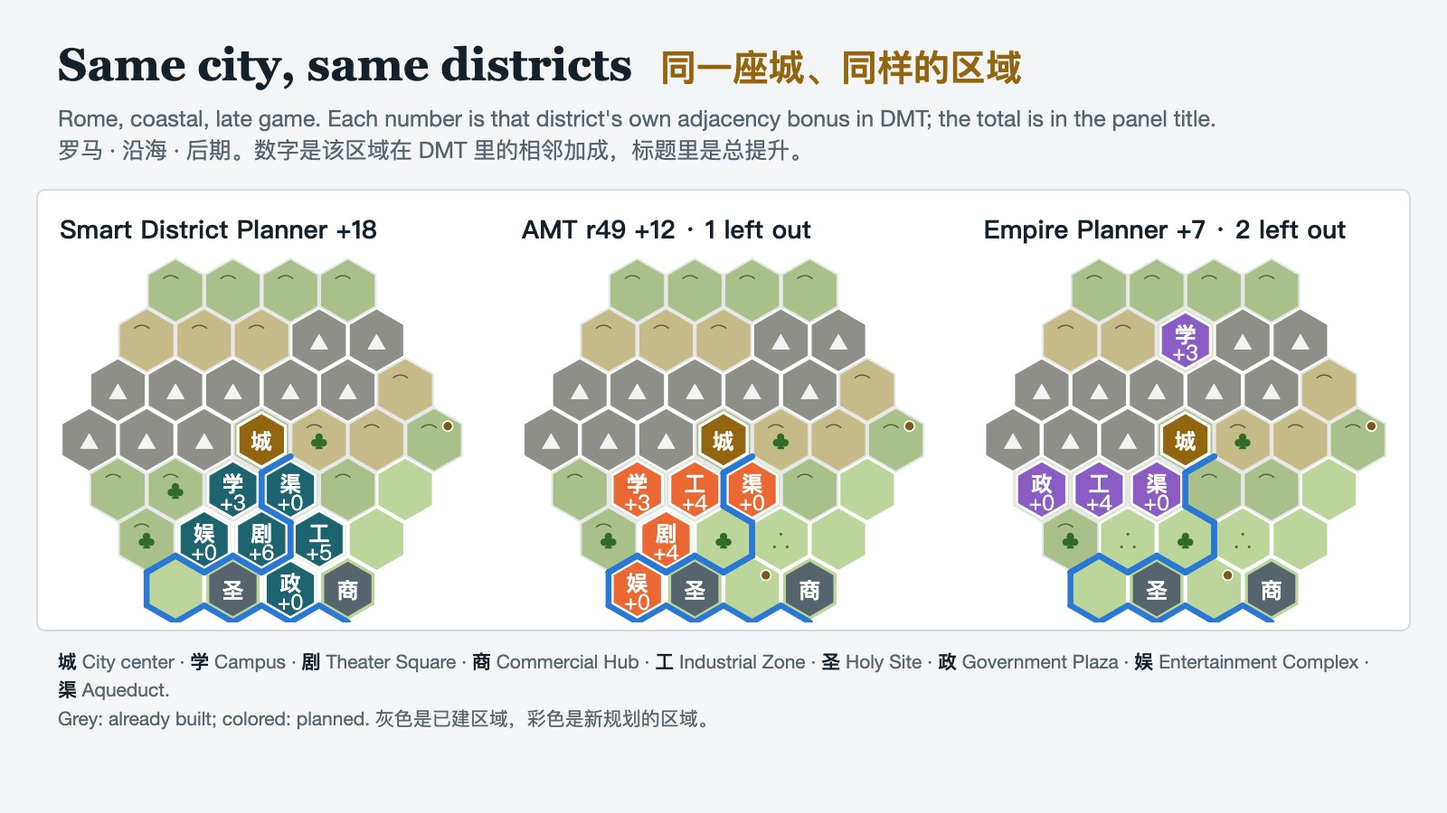
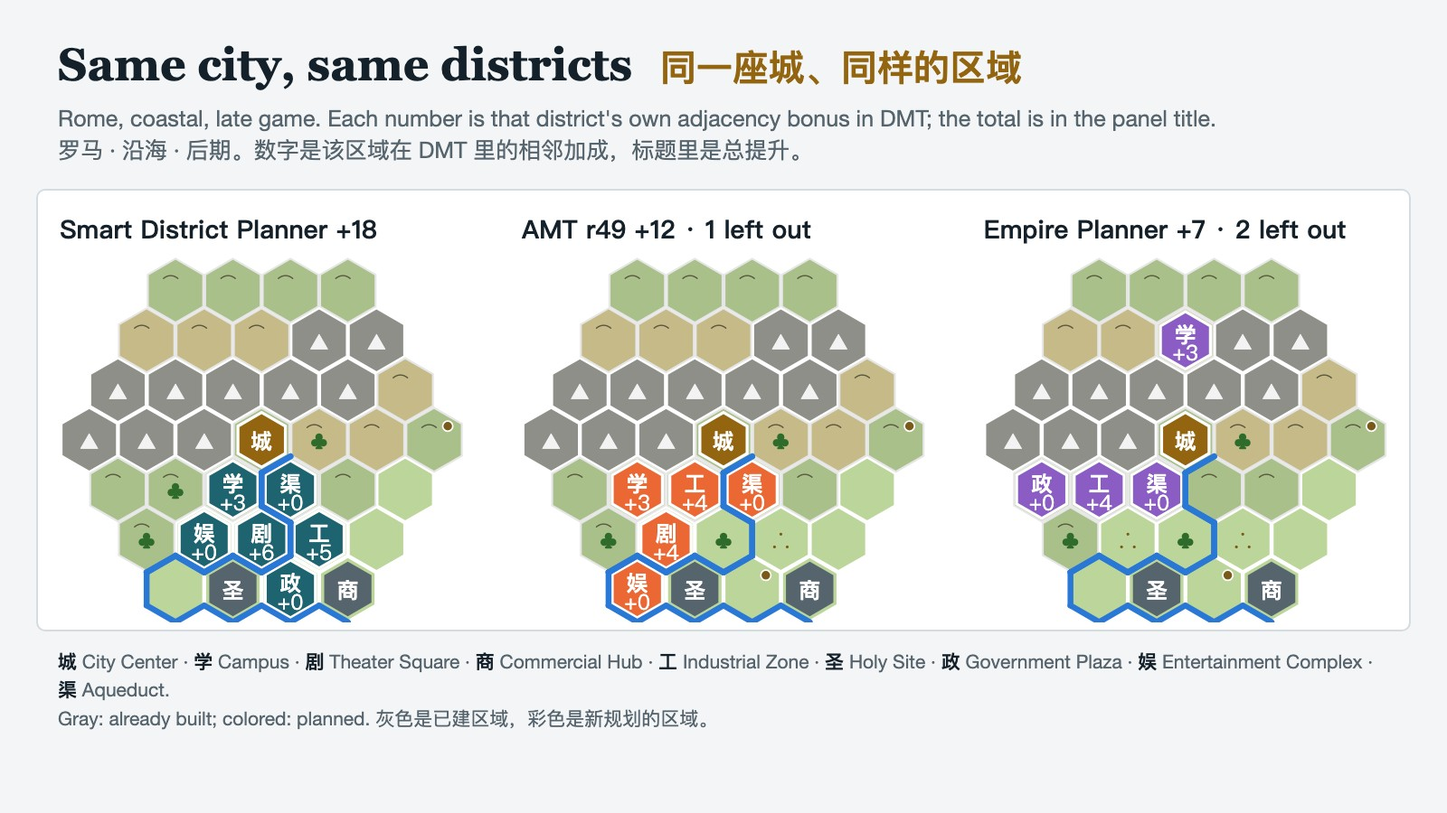
Use the game's own English terms in the mod's text (#14)
Part of #2（文字部分；英文界面的游戏内检查、英文截图和真实点击另做，#2 保持打开）

## 做了什么

- 模组英文文本（`SDP_Text_en_US.xml`）、modinfo
里内嵌的英文描述、创意工坊英文简介和对比图的图例，按游戏自己的英文文本逐个核对专有名词，改了约 60 处：
  - **tile** 代替 plot（游戏英文约 700 处用 tile，plot 只在世界编辑器等处）；
  - **valid** 代替 legal（“Valid Settling Location”）；
  - **map tack / tack** 代替 pin、pinned（游戏英文就叫 Map Tacks、Add Tack）；
- 需要人口的区域叫 **specialty districts**（百科原文），“Need population”分组改为“Specialty
districts”；
- 区域、建筑、地貌、产出名首字母大写（City Center、Theater
Square、Woods、Rainforest、Floodplains、Volcanic
Soil、Housing、Appeal、Amenity、Production……）；
- 美式拼写（neighbor、Gray）；贸易路线写“+1 Trade Route capacity”；淡水分类用游戏的 Fresh
Water / Coastal Water / No Water；
- 模组自己的词统一：“Tier”改为“Effort”（面板其他处已是
Effort），地貌权重的短标签“Clear”（像清空按钮）改为“Chop”，提醒钉名“Keep:”改为“Don't
chop:”，快捷键名改为游戏风格的“Toggle Smart District Planner”。
- 核对时顺带发现两处中文与游戏中文不一致，一并改了（中文界面文本、README、介绍与评测页、文档；CHANGELOG 的历史记录不改）：
  - 政府广场 → **市政广场**（`LOC_DISTRICT_GOVERNMENT_NAME`）；
- 林苑、圣所 →
**古树林、避难所**（`LOC_BUILDING_GROVE_NAME`、`LOC_BUILDING_SANCTUARY_NAME`）。
- 对比图图例改了文字，重新渲染了 `workshop/images/compare.jpg`；其余工坊图片重新渲染后没有变化。

## 依据

游戏文本：`DebugLocalization.sqlite` 里只有上次载入的规则集的文字，所以把游戏 Base 和全部 DLC 的文本
XML（en_US、zh_Hans_CN）全部解析出来查；在线核对用
civilization.fandom.com、Wikipedia（fandom 页面抓取被拒，只能用搜索摘要，结论与游戏文本一致）。

<details><summary>核对过的名词与依据（Tag 或链接）</summary>

| Our English (Tag or file:line) | Chinese twin | Official English |
Source | Verdict |
|---|---|---|---|---|
| Campus, Holy Site, Theater Square, Commercial Hub, Harbor, Industrial
[…]

Changed region(s): [[0.0938, 0.8089, 0.9375, 0.84], [0.1875, 0.8711, 0.5, 0.9022], [0.0625, 0.8711, 0.1562, 0.9022]]

diff --git a/report/template.html b/report/template.html
@@ -237,7 +237,7 @@ details.appx[open] > summary { margin-bottom: 8px; }
   <ul class="tight">
     <li><b>组合多</b>：一座城 3 环内约 30 个可用格，放 8 个区域就有约 30<sup>8</sup> ≈ 6.6×10<sup>11</sup> 种摆法。</li>
     <li><b>规则多</b>：不少文明改写了规则。日本的区域彼此相邻再 +1，高丽书院挨着别的区域反而减产，高卢的特色区域不能挨着市中心，越南的特色区域只能建在树林、雨林或沼泽上。</li>
-    <li><b>多城牵连</b>：相邻的城可以共享加成，也会抢同一格；政府广场这类区域全帝国只能有一个。</li>
+    <li><b>多城牵连</b>：相邻的城可以共享加成，也会抢同一格；市政广场这类区域全帝国只能有一个。</li>
     <li><b>已有的东西要尊重</b>：已经建好的区域、玩家自己打的钉、奢侈与战略资源都不能被挪动或压掉。</li>
   </ul>
     <p>本模组把这些都算进去。面板有三个页签：单城、选城址、多城。下面列出每个页签里你设置什么、得到什么；标 <span class="tag from">AMT</span><span class="tag from">EP</span> 的是借鉴这两个模组的做法（第 3 节）。</p>
@@ -255,7 +255,7 @@ details.appx[open] > summary { margin-bottom: 8px; }
       </ul></div>
       <div><p class="lbl">得到</p><ul class="tight">
         <li>加权提升，分列相邻、地块、距离、住房与魅力几部分</li>
-        <li>社区、保护区：所在格的魅力和给的住房（如“住房 +6（魅力 4）”）；保护区另列周边地块因林苑、圣所得到的产出（设为必建时计分；从候选里挑出的只显示，标“候选，不计分”）。方案里其他区域对魅力的影响（工业区 -1、圣地 +1、清掉树林……）一起算</li>
+        <li>社区、保护区：所在格的魅力和给的住房（如“住房 +6（魅力 4）”）；保护区另列周边地块因古树林、避难所得到的产出（设为必建时计分；从候选里挑出的只显示，标“候选，不计分”）。方案里其他区域对魅力的影响（工业区 -1、圣地 +1、清掉树林……）一起算</li>
         <li>从候选里挑时：三套区域组合各不相同的方案，各写明挑出了哪些区域；点一套即在地图上预览图标和加成</li>
         <li>每个区域、奇观一行：坐标和加成（如“科+2 文+1”），悬停看 DMT 的逐项来源；自动加入、从候选挑出的另有标注</li>
         <li>缺淡水时自动加水渠，三环内泛滥平原不少于 3 格时自动加水坝（风云变幻），位置照常求解</li>
@@ -272,7 +272,7 @@ details.appx[open] > summary { margin-bottom: 8px; }
       <div><p class="lbl">你设置</p><ul class="tight">
         <li>新城数量、最远距离</li>
         <li>权重预设（均衡、成长优先、区域优先），各项可再调，包括距离成本、奢侈资源的宜居度、战略资源、可砍伐地貌、魅力（默认不计）</li>
-        <li>用来估算区域潜力的区域（政府广场这类全帝国限量的区域不按城址计），以及每个城址按几个区域估分（默认 3）：勾选的多于这个数时，每个城址各自挑区域分最高的几个</li>
+        <li>用来估算区域潜力的区域（市政广场这类全帝国限量的区域不按城址计），以及每个城址按几个区域估分（默认 3）：勾选的多于这个数时，每个城址各自挑区域分最高的几个</li>
       </ul></div>
       <div><p class="lbl">得到</p><ul class="tight">
         <li>三套城址方案，各有总分，并注明候选城址数和其中精评了区域的个数</li>
@@ -287,7 +287,7 @@ details.appx[open] > summary { margin-bottom: 8px; }
       <div><p class="lbl">你设置</p><ul class="tight">
         <li>参与城市：全部城址钉，加上离任一新城 7 格内的现有城市（最多 8 座）。每一项都可以取消勾选：城址钉取消后不参与规划，钉还在，仍作邻居；现有城市取消后只作邻居（不给它规划，但它的区域照样计入相邻）</li>
         <li>区域清单：所有城市共用一张，或给某座城单独一张；网格与单城相同。每城数量：多于必建个数时，为每座城从候选里挑。可套用按产出生成的模板（“科技城”“生产力城”……，由本文明的相邻规则推出），也可清空、改回共用 <span class="tag from">AMT</span></li>
-        <li>全帝国限量的区域（政府广场等）：只写进一座城的清单就只放在那座城，写进几座城就在其中自动选 <span class="tag from">AMT</span></li>
+        <li>全帝国限量的区域（市政广场等）：只写进一座城的清单就只放在那座城，写进几座城就在其中自动选 <span class="tag from">AMT</span></li>
         <li>奇观（标签加下拉框）、产出与住房权重、距离成本；开关：计入占地损失、替换本模组之前为参与城市打的钉、提醒钉、港口与商业中心分城（按城判断）</li>
         <li>覆盖范围的权重（0–3，默认 0 不计）：工厂、电厂、动物园、体育场、水族馆和斗兽场等奇观惠及一定距离内的本方城市（规则数据里多为 6 格），规划时把新覆盖的城市也算进去；只决定区域放在哪，不会替城市加区域 <span class="tag from">AMT</span></li>
       </ul></div>
@@ -411,7 +411,7 @@ details.appx[open] > summary { margin-bottom: 8px; }
     <li><b>优化的不是钉上的数。</b>评分把特色区域的产出乘 6–10.5 倍、其他区域乘 2 倍，再减去占用地块的产出；产出权重都设成 1 时，它找的也不是地图钉上相邻加成最高的方案。</li>
     <li><b>合法性检查之间不清缓存。</b>逐格检查合法性时不清空 DMT 的地块缓存，前一个区域的假想位置会影响后面的检查，有合法位置的区域可能被判为放不下（例：剧院被判“不能放在水坝上”）。<span class="ev"><span class="tag run">实测</span>{{AMT_MISSING}}</span></li>
     <li><b>多城先比槽位。</b>联合规划的排序先比槽位填满数和“覆盖缺口”，产出排在第 6 层；工业区、娱乐中心的覆盖请求对所有城开放，区域可能放进没选它的城；各城的产出偏好合成一组。作者把多城联合标为实验功能，评估超过 20 万次时不给方案。</li>
-    <li><b>全帝国唯一的区域。</b>AUTO 模式给政府广场单独一个槽位，但它仍占人口名额；帝国上限在不同的路径里分别按“已建加已打钉”或“只算已建”计算；单城模式不隐藏已达上限的政府广场、外交区。</li>
+    <li><b>全帝国唯一的区域。</b>AUTO 模式给市政广场单独一个槽位，但它仍占人口名额；帝国上限在不同的路径里分别按“已建加已打钉”或“只算已建”计算；单城模式不隐藏已达上限的市政广场、外交区。</li>
     <li><b>多城一次算完。</b>多城的准备阶段对每座城、每个请求、每个合法格做一次完整的 DMT 评估，一次做完，期间游戏不响应。</li>
     <li><b>每城最多 6 个特色区域。</b>{{AMT_SLOTS}}</li>
   </ul>
@@ -458,7 +458,7 @@ details.appx[open] > summary { margin-bottom: 8px; }
     <li>多城页签没有“禁止砍伐”开关，始终允许砍伐树林、雨林、沼泽。</li>
     <li>每种区域只规划一个；社区这类可以重复建造的区域要多个时，需分次求解。</li>
     <li><b>魅力</b>：方案之外以后才建的改良设施不在模型里；保护区周边产出假设那些地块一直不开发；打钉的保护区只计住房。区域建在沼泽上时本格魅力怎么变没有实测（按雨林处理）。后期存档复核时，东京一个保护区游戏给的住房比预测多 1，原因没有查明（附录 B.8）。</li>
-    <li><b>保护区周边产出只在必建时计分</b>：惊艳、迷人的地块多时，一个保护区的周边产出可达 40–70 点；这些产出要建林苑、圣所才有，计入挑选会让候选里几乎总是先挑保护区。所以从候选里挑时只计它的住房，周边产出只显示。</li>
+    <li><b>保护区周边产出只在必建时计分</b>：惊艳、迷人的地块多时，一个保护区的周边产出可达 40–70 点；这些产出要建古树林、避难所才有，计入挑选会让候选里几乎总是先挑保护区。所以从候选里挑时只计它的住房，周边产出只显示。</li>
     <li><b>一次打很多钉</b>：DMT 每收到一个新钉就更新它和周围的钉，每次都把整张钉数据表读出再存回，钉越多越慢。地图上已有约 100 个钉时一次打 80 多个，游戏忙约 12 秒；正常一次打 15 个约 0.25 秒。</li>
     <li>从候选里挑时只比目标函数（相邻加成，打开时加上地块、覆盖、距离成本），区域里建筑本身的产出不计：军营、航空港这类没有相邻加成的区域放在候选里不会被挑中，需要时设为必建。</li>
     <li>提醒钉只提醒规划的区域旁边的树林、雨林；已有区域旁边的地貌与这次规划无关，不提醒。</li>
@@ -533,7 +533,7 @@ details.appx[open] > summary { margin-bottom: 8px; }
         <text class="d-sub" x="766" y="58">离市中心远</text>
         <text class="d-sub" x="766" y="74">每格扣分</text>
         <text class="d-lab" x="766" y="90">默认 0</text>
-        <text class="d-sub" x="10" y="120">区域里建筑本身的产出不计；必建保护区的林苑、圣所给周边地块的产出例外，因为它取决于摆放位置。</text>
+        <text class="d-sub" x="10" y="120">区域里建筑本身的产出不计；必建保护区的古树林、避难所给周边地块的产出例外，因为它取决于摆放位置。</text>
       </svg>
     </div>
   </figure>
@@ -619,7 +619,7 @@ details.appx[open] > summary { margin-bottom: 8px; }
       <thead><tr><th>场景集</th><th class="num">场景</th><th>内容</th><th>用途</th></tr></thead>
       <tbody>
         <tr><td>开发集 · 单城</td><td class="num">{{N_SINGLE}}</td><td>{{N_CIVS}} 个文明 × 8 种地形 × 前期 / 中期 / 后期</td><td>主实验；改算法时只看开发集</td></tr>
-        <tr><td>开发集 · 多城</td><td class="num">{{N_MULTI}}</td><td>3–4 座城联合规划，含政府广场</td><td>主实验</td></tr>
+        <tr><td>开发集 · 多城</td><td class="num">{{N_MULTI}}</td><td>3–4 座城联合规划，含市政广场</td><td>主实验</td></tr>
         <tr><td>留出集</td><td class="num">{{N_HS}} + {{N_HM}}</td><td>构成同开发集，换了地图种子</td><td>复核：改算法时没看过</td></tr>
         <tr><td>换权重</td><td class="num">3 × {{N_SINGLE}}</td><td>开发集单城的地图，科研、生产或信仰的权重设为 3</td><td>复核：换一组目标</td></tr>
         <tr><td>奇观</td><td class="num">{{N_W}}</td><td>中期单城，2 座奇观 + 4–5 个区域</td><td>奇观与区域联合规划</td></tr>
@@ -629,7 +629,7 @@ details.appx[open] > summary { margin-bottom: 8px; }
     </table>
   </div>
   <div class="col">
-    <p>开发集的地形有温带河谷、沿海、高地、雨林、沙漠泛滥平原、苔原、岛屿、火山；文明里有日本、高丽、高卢、越南、巴西、荷兰、希腊、马里、印尼、埃及、拜占庭等改写了区域规则的文明。有的场景还有邻国城市、城邦、自然奇观、尚未探索的格子，以及玩家事先手打的钉。前期要 2 个区域，中期 4–5 个（已建 1 个），后期 7–8 个（已建 2 个，含水渠、政府广场，沙漠里含水坝）。</p>
+    <p>开发集的地形有温带河谷、沿海、高地、雨林、沙漠泛滥平原、苔原、岛屿、火山；文明里有日本、高丽、高卢、越南、巴西、荷兰、希腊、马里、印尼、埃及、拜占庭等改写了区域规则的文明。有的场景还有邻国城市、城邦、自然奇观、尚未探索的格子，以及玩家事先手打的钉。前期要 2 个区域，中期 4–5 个（已建 1 个），后期 7–8 个（已建 2 个，含水渠、市政广场，沙漠里含水坝）。</p>
     <p><b>指标</b></p>
     <ul class="tight">
       <li><b>加成</b>：方案打成钉后，玩家全部区域与区域钉在 DMT 里的相邻加成之和（按场景的产出权重），减去规划之前的和。</li>
@@ -718,7 +718,7 @@ details.appx[open] > summary { margin-bottom: 8px; }
   <!-- B.3 multi city -->
   <div class="col">
     <h3 id="e-multi"><span class="sn">B.3</span>多城</h3>
-    <p>开发集 {{N_MULTI}} 个场景，每个 3–4 座城一起规划（含政府广场）；留出集另有 {{N_HM}} 个；覆盖范围另用 {{N_V}} 个场景，见本节最后一段。</p>
+    <p>开发集 {{N_MULTI}} 个场景，每个 3–4 座城一起规划（含市政广场）；留出集另有 {{N_HM}} 个；覆盖范围另用 {{N_V}} 个场景，见本节最后一段。</p>
     <p class="exp"><b>联合规划。</b>{{MULTI_TEXT}}</p>
     <figure>
       <div class="frame chart" id="ch-multi"></div>
@@ -809,7 +809,7 @@ details.appx[open] > summary { margin-bottom: 8px; }
     <table>
       <thead><tr><th>测试</th><th>内容</th><th>结果</th></tr></thead>
       <tbody>
-        <tr><td>游戏内（经 FireTuner 在游戏的 Lua 状态里断言）</td><td>92 项，在原版 / 迭起兴衰 / 风云变幻下各跑一遍，其中 73 项另以日本、高卢各跑一遍：与暴力枚举最优一致、假想摆放与真实 DMT 钉逐项一致、确定性、锁定钉、打钉撤销、分帧与关闭面板、多城与选城址合法；单城奇观、补放、好位置、钉的记录与替换、逐城清单与限量区域、覆盖范围、快捷键；从候选里挑与三套方案、地图预览、距离成本、自动水渠水坝、提醒钉与 DMT 一致、城址钉取消、选城址按个数估分；游戏规则里的港口 / 商业中心配对、候选池不同城挑两者、社区住房与游戏的魅力一致且挑在可建格里魅力最高处、取消城址钉与替换旧钉不动市中心钉</td><td>0 失败（该规则集没有的内容或地图条件不满足时跳过 1–4 项，如原版没有政府广场、地图全部已探索）</td></tr>
+        <tr><td>游戏内（经 FireTuner 在游戏的 Lua 状态里断言）</td><td>92 项，在原版 / 迭起兴衰 / 风云变幻下各跑一遍，其中 73 项另以日本、高卢各跑一遍：与暴力枚举最优一致、假想摆放与真实 DMT 钉逐项一致、确定性、锁定钉、打钉撤销、分帧与关闭面板、多城与选城址合法；单城奇观、补放、好位置、钉的记录与替换、逐城清单与限量区域、覆盖范围、快捷键；从候选里挑与三套方案、地图预览、距离成本、自动水渠水坝、提醒钉与 DMT 一致、城址钉取消、选城址按个数估分；游戏规则里的港口 / 商业中心配对、候选池不同城挑两者、社区住房与游戏的魅力一致且挑在可建格里魅力最高处、取消城址钉与替换旧钉不动市中心钉</td><td>0 失败（该规则集没有的内容或地图条件不满足时跳过 1–4 项，如原版没有市政广场、地图全部已探索）</td></tr>
         <tr><td>增量评估 vs 全量评估</td><td>记忆化的增量评估与真实 DMT 全量评估逐项比对</td><td>300 次，0 不一致</td></tr>
         <tr><td>离线逻辑测试</td><td>101 项：求解器与暴力枚举、增量记账、分帧、面板流程、规则补充、引擎复核、钉的记录与替换、逐城清单、奇观、补放与好位置、覆盖范围；从候选里挑（与逐个组合的暴力枚举一致、三套组合不同）、距离成本、自动水渠水坝、提醒钉、选城址按个数估分、多城按城挑选；多城的宽束联合起点；港口与商业中心分城（开关两种结果、必建与已打钉挡住配对、凑不够时放行、多城按城）；魅力与住房（与独立写的暴力枚举逐个相同、清掉地貌要有对应科技、水面不变、本格与邻格）；界面经控件自己的点击回调（区域格两页各点一圈、勾选框、选城址打钉后多城替换不动市中心钉）；互斥区域（娱乐中心与水上乐园）、必建区域抢同一块地时放下能放的、拥挤城市候选一个合法格都没有、占掉改良设施少的住房</td><td>全部通过</td></tr>
         <tr><td>离线对比自检</td><td>本模组自己算的加成与裁判独立算的加成</td><td>{{SELF_CHECK}}</td></tr>

diff --git a/report/part_algo.html b/report/part_algo.html
@@ -187,7 +187,7 @@
     </div>
     <figcaption>束宽加倍的联合起点是另加的：几座城的区域连成一片、跨城互给加成的形状，窄束常常走不到。直接把原来的联合起点加宽反而在一张图上少 3 分，所以原有起点不变。</figcaption>
   </figure>
-  <p>参与的是全部城址钉，加上离任一新城 7 格内的现有城市（最多 8 座）。全帝国限量的区域（政府广场）只开剩余名额，放在清单里有它的各城候选格里。覆盖范围默认不计；打开后，工厂、动物园这类惠及周围城市的区域每多覆盖一座本方城市加权重分，半径从规则数据读。</p>
+  <p>参与的是全部城址钉，加上离任一新城 7 格内的现有城市（最多 8 座）。全帝国限量的区域（市政广场）只开剩余名额，放在清单里有它的各城候选格里。覆盖范围默认不计；打开后，工厂、动物园这类惠及周围城市的区域每多覆盖一座本方城市加权重分，半径从规则数据读。</p>
   </div>
 
   <div class="algo">
@@ -281,12 +281,12 @@
         <polygon class="hx-far" points="648,95 674,110 674,140 648,155 622,140 622,110"/><text class="hx-t hx-t-far" x="648" y="118" text-anchor="middle">农场</text><text class="hx-t hx-t-far" x="648" y="134" text-anchor="middle">0</text>
         <polygon class="hx-far" points="674,140 700,155 700,185 674,200 648,185 648,155"/><text class="hx-t hx-t-far" x="674" y="163" text-anchor="middle">山</text><text class="hx-t hx-t-far" x="674" y="179" text-anchor="middle">0</text>
         <polygon class="hx-near" points="726,140 752,155 752,185 726,200 700,185 700,155"/><text class="hx-t" x="726" y="163" text-anchor="middle">一般</text><text class="hx-t" x="726" y="179" text-anchor="middle">0</text>
-        <text class="d-sub" x="700" y="226" text-anchor="middle">林苑：迷人 食信 +1，惊艳 食信文 +2</text>
-        <text class="d-sub" x="700" y="242" text-anchor="middle">圣所：迷人 金科 +1，惊艳 金科产 +2</text>
+        <text class="d-sub" x="700" y="226" text-anchor="middle">古树林：迷人 食信 +1，惊艳 食信文 +2</text>
+        <text class="d-sub" x="700" y="242" text-anchor="middle">避难所：迷人 金科 +1，惊艳 金科产 +2</text>
         </g>
       </svg>
     </div>
-    <figcaption>左：方案在社区旁放了圣地、工业区，剧院建在一片树林上，这三样都改变社区格的魅力。右：保护区周边地块按魅力拿林苑、圣所的产出，只给未开发、城市能耕作的地块；打开“计入占地”时，这些产出加在地块模型里，挤进城市最好的 P 块才算。</figcaption>
+    <figcaption>左：方案在社区旁放了圣地、工业区，剧院建在一片树林上，这三样都改变社区格的魅力。右：保护区周边地块按魅力拿古树林、避难所的产出，只给未开发、城市能耕作的地块；打开“计入占地”时，这些产出加在地块模型里，挤进城市最好的 P 块才算。</figcaption>
   </figure>
   <p>这一项 = 住房权重 × 住房 + 各产出权重 × 周边产出，减去不规划时的值（城里已建、已打钉的社区降档也算进去）。周边产出只算必建的保护区：从候选里挑出的保护区只计住房，周边产出在结果里显示、标“候选，不计分”，否则后期几乎总是先挑保护区。区域占掉农场、牧场这类给住房的改良设施时城市少的住房（游戏把全城的“每块住房”加总后向下取整，农场每块 0.5），结果里单列一行提示，不计入分数：试过计入，面板默认设置下相邻加成和城市总产出都变差。建在树林上的区域，清掉的树林也不再计入本格；雨林、沼泽这类负值地貌清掉后本格不变。规则全部从规则表读：<code>AppealHousingChanges</code>、<code>Adjacent_AppealYieldChanges</code>、区域和地貌的魅力值；建区域清掉地貌要玩家有那项地貌的移除科技（树林要采矿），水面格魅力不变。游戏内校准：首都 4 格内 61 格魅力全部与预测相同；三张后期存档里，游戏按玩家的建造流程建出 9 个方案，社区、保护区格的魅力 17 格全部相同，改良设施住房 9 个全部相同，区域住房 9 个中 8 个相同（B.8）；保护区周边产出与规则表逐格相同。</p>
   </div>

diff --git a/workshop/src/compare.html b/workshop/src/compare.html
@@ -22,5 +22,5 @@
     <p class="sub">Rome, coastal, late game. Each number is that district's own adjacency bonus in DMT; the total is in the panel title.<br>罗马 · 沿海 · 后期。数字是该区域在 DMT 里的相邻加成，标题里是总提升。</p>
   </header>
   <div class="map hexmap">{{SVG}}</div>
-  <p class="key"><span><b>城</b> City center</span> · <span><b>学</b> Campus</span> · <span><b>剧</b> Theater Square</span> · <span><b>商</b> Commercial Hub</span> · <span><b>工</b> Industrial Zone</span> · <span><b>圣</b> Holy Site</span> · <span><b>政</b> Government Plaza</span> · <span><b>娱</b> Entertainment Complex</span> · <span><b>渠</b> Aqueduct</span>.<br>Grey: already built; colored: planned. 灰色是已建区域，彩色是新规划的区域。</p>
+  <p class="key"><span><b>城</b> City Center</span> · <span><b>学</b> Campus</span> · <span><b>剧</b> Theater Square</span> · <span><b>商</b> Commercial Hub</span> · <span><b>工</b> Industrial Zone</span> · <span><b>圣</b> Holy Site</span> · <span><b>政</b> Government Plaza</span> · <span><b>娱</b> Entertainment Complex</span> · <span><b>渠</b> Aqueduct</span>.<br>Gray: already built; colored: planned. 灰色是已建区域，彩色是新规划的区域。</p>
 </body></html>

diff --git a/report/build.py b/report/build.py
@@ -70,7 +70,7 @@ PLANNERS = {
     "ep:DEFAULT": {"label": "EP（默认权重）", "color": "--ep"},
 }
 DNAME = {"DISTRICT_AQUEDUCT": "水渠", "DISTRICT_DAM": "水坝", "DISTRICT_HARBOR": "港口", "DISTRICT_SEOWON": "书院",
-         "DISTRICT_CANAL": "运河", "DISTRICT_GOVERNMENT": "政府广场"}
+         "DISTRICT_CANAL": "运河", "DISTRICT_GOVERNMENT": "市政广场"}
 STAGES = [("early", "前期 · 2 个区域"), ("mid", "中期 · 4–5 个"), ("late", "后期 · 7–8 个")]
 PAGES_URL = "https://smallspider0.github.io/civ6-smart-district-planner/"
 
@@ -695,7 +695,7 @@ def build(files=None, make_snapshots=True, version=None, date=None, lang="zh"):
         mb = robust_best.get("dev/multi", {})
         every = mb.get("sdp:STANDARD") == 1
         texts["MULTI_TEXT"] = (
-            "联合规划在%s拿到最高。用单城页签一座一座规划，平均只有最高值的 %s：差的是跨城互惠和政府广场的位置。AMT 也做联合规划，平均 %s；EP %s。" % (
+            "联合规划在%s拿到最高。用单城页签一座一座规划，平均只有最高值的 %s：差的是跨城互惠和市政广场的位置。AMT 也做联合规划，平均 %s；EP %s。" % (
                 ("全部 %d 个场景里都" % M["sdp:STANDARD"]["n"]) if every else (" %s 的场景" % pct(mb.get("sdp:STANDARD") or 0)),
                 pct(M["sdp:CITY_BY_CITY"]["quality"]) if M.get("sdp:CITY_BY_CITY") else "-",
                 pct(M["amt"]["quality"]) if M.get("amt") else "-", pct(M["ep"]["quality"]) if M.get("ep") else "-"))
@@ -1210,8 +1210,8 @@ def stress_section(markdown=False, lang="zh"):
         if not d.get("Preserves"):
             return "各文明都没有建保护区"
         if not d.get("WithBuildings"):
-            return "%d 个保护区，都没有建林苑、圣所" % d["Preserves"]
-        return "%d 个保护区（%d 个有林苑或圣所）；按规则该有产出的地块 %d 块，产出不少于规则的 %d 块，少于的 %d 块" % (
+            return "%d 个保护区，都没有建古树林、避难所" % d["Preserves"]
+        return "%d 个保护区（%d 个有古树林或避难所）；按规则该有产出的地块 %d 块，产出不少于规则的 %d 块，少于的 %d 块" % (
             d["Preserves"], d["WithBuildings"], d["Expected"], d["Seen"], d["Missing"])
     row("保护区周边产出（AI 自己建的）", preserves)
 

diff --git a/docs/self-test-report.md b/docs/self-test-report.md
@@ -29,7 +29,7 @@
 | 离线对比（开发集 S、M，本模组全部设置，568 次运行） | 563 次方案与裁判分逐个相同；4 次相邻少 1、各多 1 住房；1 次相邻多 2。住房权重设为 0 重跑受影响的 7 组场景，49 次全部与改动前相同 |
 | 游戏内（风云变幻，罗马） | 全部 92 项：91 通过、1 跳过（需要范围内有未揭示格）。`test_feedback2.lua` 5 项：游戏规则里的港口 / 商业中心配对与特色区域、候选池不同城挑两者、社区住房与游戏魅力一致且挑在可建格里魅力最高处、城址钉取消与替换不动市中心钉、开关名称与默认 |
 | 真实鼠标点击（`tools/realclick.py`，macOS） | 30 项全部通过：区域格在单城、多城两页的循环（候选 → 必建 → 不建，自动 → 必建 → 不建）、城址钉勾选框、两个分城开关、页签、求解、方案行、打钉、撤销、关闭。对照：只把区域格的选中底色换回旧的 GridButton 写法，同一套点击得到合作者报告的现象（候选 → 必建后点不动，自动格完全点不动） |
-| 魅力校准（`tests/bench/calibrate_appeal.py`） | 不解锁科技的前置：首都 4 格内 61 格魅力全部与预测相同，社区、保护区住房相同。复核中加进模型三条规则：清掉地貌要有对应科技（树林要采矿）、水面格魅力不变、区域本格只扣清掉的地貌。一次解锁全部科技的前置下，几块不挨规划区域的树林格游戏高 1，原因未查明。保护区林苑、圣所的周边产出起初读不到变化，后来查明是读错了 Lua 状态，复核结果见上一表 |
+| 魅力校准（`tests/bench/calibrate_appeal.py`） | 不解锁科技的前置：首都 4 格内 61 格魅力全部与预测相同，社区、保护区住房相同。复核中加进模型三条规则：清掉地貌要有对应科技（树林要采矿）、水面格魅力不变、区域本格只扣清掉的地貌。一次解锁全部科技的前置下，几块不挨规划区域的树林格游戏高 1，原因未查明。保护区古树林、避难所的周边产出起初读不到变化，后来查明是读错了 Lua 状态，复核结果见上一表 |
 | 测试中遇到的 | 自动回合以玩家 0 身份观察时，AI 的外交（初次见面、交易）发到本地界面等回答，回合停住；关闭外交界面后游戏崩溃，崩在游戏自己的网络线程加载证书时（libcurl / libcrypto 检测到堆损坏，栈上没有 Lua）。压力测试的自动回合改为以观察者身份观察（游戏自带的自动化测试也这样做） |
 
 **后期存档压力测试**（第六轮，2026-10-21，游戏内；`tools/stress.py`，multicity-design.md 22.6）：
@@ -55,9 +55,9 @@ AI 自动打出 3 张后期存档，每张跑同一组求解步骤（`tools/stre
 | 面板各页签切换 | 0.04 秒 | 0.05 秒 | 0.04 秒 |
 | 核对 | 失败 0；增量与全量评估不一致 0；引擎不允许的格 0；两次求解相同 6/6 | 失败 0；增量与全量评估不一致 0；引擎不允许的格 0；两次求解相同 6/6 | 失败 0；增量与全量评估不一致 0；引擎不允许的格 0；两次求解相同 6/6 |
 | 魅力复核：游戏按正常流程建出“社区 + 保护区 + 工业区”的方案 | 3 个方案建成：社区、保护区格的魅力相同 6/6，区域住房相同 2/3，改良设施住房相同 3/3（0 个方案占掉了给住房的改良设施） | 3 个方案建成：社区、保护区格的魅力相同 5/5，区域住房相同 3/3，改良设施住房相同 3/3（1 个方案占掉了给住房的改良设施） | 3 个方案建成：社区、保护区格的魅力相同 6/6，区域住房相同 3/3，改良设施住房相同 3/3（2 个方案占掉了给住房的改良设施） |
-| 保护区周边产出（AI 自己建的） | 1 个保护区，都没有建林苑、圣所 | 4 个保护区，都没有建林苑、圣所 | 3 个保护区，都没有建林苑、圣所 |
+| 保护区周边产出（AI 自己建的） | 1 个保护区，都没有建古树林、避难所 | 4 个保护区，都没有建古树林、避难所 | 3 个保护区，都没有建古树林、避难所 |
 
-这轮压力测试找到并修好的：娱乐中心与水上乐园会被放进同一座城；几个必建区域抢同几格时单城报错、一个都不放；拥挤城市的 8 城联合规划报错；多城页分城开关文字被截断。魅力模型按玩家的建造流程重新实测并改进：清掉的树林也不再计入本格（雨林、沼泽不扣）；区域占掉农场这类改良设施时城市少的住房在结果里单列提示。复核时社区、保护区格的魅力 17/17、改良设施住房 9/9 与游戏一致，区域住房 8/9（东京一个保护区游戏多给 1，原因未查明）。保护区林苑、圣所的周边产出与规则表逐格相同（`tests/bench/probe_preserve.py`，之前在核心状态读产出读错了）。按 2026-10-22 的决定，保护区周边产出只在设为必建时计分，从候选里挑出的只显示：改后盘古大陆的多城示例从 +169（其中 +165 是这一项）变为 +34，截图已换。最终代码：离线 101 项通过，开发集 352 次运行与改动前相同；游戏内 92 项（91 通过、1 跳过）；真实点击 30 项通过。
+这轮压力测试找到并修好的：娱乐中心与水上乐园会被放进同一座城；几个必建区域抢同几格时单城报错、一个都不放；拥挤城市的 8 城联合规划报错；多城页分城开关文字被截断。魅力模型按玩家的建造流程重新实测并改进：清掉的树林也不再计入本格（雨林、沼泽不扣）；区域占掉农场这类改良设施时城市少的住房在结果里单列提示。复核时社区、保护区格的魅力 17/17、改良设施住房 9/9 与游戏一致，区域住房 8/9（东京一个保护区游戏多给 1，原因未查明）。保护区古树林、避难所的周边产出与规则表逐格相同（`tests/bench/probe_preserve.py`，之前在核心状态读产出读错了）。按 2026-10-22 的决定，保护区周边产出只在设为必建时计分，从候选里挑出的只显示：改后盘古大陆的多城示例从 +169（其中 +165 是这一项）变为 +34，截图已换。最终代码：离线 101 项通过，开发集 352 次运行与改动前相同；游戏内 92 项（91 通过、1 跳过）；真实点击 30 项通过。
 
 **多城标准档的宽束联合起点**（2026-10-21，离线；multicity-design.md 第 21 节）：
 
@@ -80,7 +80,7 @@ AI 自动打出 3 张后期存档，每张跑同一组求解步骤（`tools/stre
 | 单城挑选基准（`bench_pools.lua`，4 个种子 × 4 种情形，参照为逐个组合单独求解的最好结果） | 标准档 16/16 挑中最好的组合，一次算完约 0.4–1.0 秒；快速档平均 98%（最差 93%），约 0.1–0.2 秒；精细档 16/16，约 2.3–4.6 秒（粗解改用较小的穷举上限后，从约 4.6 秒降到约 2.3 秒）。单城不挑时快速、标准档的质量和耗时与改动前相同 |
 | 多城挑选基准（`bench_multipools.lua`，首都 + 3 个城址钉，每座城学院必建、再从 5 个候选挑 2 个，3 个种子；参照为各档、精细档加两次继续优化、“先逐城挑再联合规划”中最好的值） | 精细档 3/3 达到参照，按单价折算约 6.5 秒；快速、标准档平均 97.6%（最差 93%），约 0.5 秒、2.5 秒（分帧）。“先逐城挑”（每座城单独用单城精细档挑组合，再联合规划）为 96%、97%、100%。差的种子 11 上，标准档挑的组合与精细档相同（每座城商业中心 + 圣地）；直接给定这组区域、不挑选时标准档也是 26 分（精细档 28）。差距来自多城的摆放搜索本身，与挑选无关；2026-10-21 已改进，见下一表 |
 | 游戏内 `test_feedback.lua`（7 项） | 三种规则集都通过。风云变幻罗马局：首都必建学院、再挑 2 个，三套方案分别挑出商业中心 + 港口（+9）、商业中心 + 剧院广场（+5）、商业中心 + 工业区（+5）；首都有淡水，不加水渠；三环内泛滥平原够数，自动加的水坝放在 (16,37)，旁边的工业区 +3；一处恰好挨着两片树林的格放圣地，两片树林都报“砍掉少 1 信仰”；城址钉取消后不参与；每座城按数量挑；选城址每个城址不超过 2 个 |
-| 游戏内全部测试 | 风云变幻 86 通过、1 跳过；迭起兴衰 85 通过、2 跳过；原版 83 通过、4 跳过。跳过的都是该规则集没有的内容（政府广场、风云变幻的数值）或地图条件（范围内全部已揭示） |
+| 游戏内全部测试 | 风云变幻 86 通过、1 跳过；迭起兴衰 85 通过、2 跳过；原版 83 通过、4 跳过。跳过的都是该规则集没有的内容（市政广场、风云变幻的数值）或地图条件（范围内全部已揭示） |
 | 游戏内发现并修好的 | 选城址页签打开时调用了已删掉的滚动面板，报错（离线的控件替身发现不了）；`validate.py` 加了检查：脚本用到的 `Controls.<ID>` 必须在 UI XML 里有。权重行里地貌、距离用的字体图标是黑底方块，与产出图标风格不同，改为短字；"求解档位"标签被下拉框挡住，改为"档位"；距离权重的 0.5 挤到箭头，数值改小一号字 |
 
 **覆盖范围**（2026-10-20 晚，离线与游戏内；multicity-design.md 第 19 节）：
@@ -123,7 +123,7 @@ AI 自动打出 3 张后期存档，每张跑同一组求解步骤（`tools/stre
 - `test_rules`、`test_overlay`：断言写死了“学院每个相邻区域 +0.5”，日本、高卢的特性用 `ExcludedAdjacencies` 换掉了这条规则（本模组按规则正确地不计）。断言改为按玩家的特性判断；与真实 DMT 钉逐项比对的部分对所有文明都通过。
 - 另发现 `test_city`“已有地图钉锁定格子”删钉后没有 `Network.BroadcastPlayerInfo()`，钉留在地图上，影响后面的测试。改为按坑 19 删除；现在每局测试结束后地图上没有遗留的钉。
 
-本轮新增或加强的游戏内用例：`test_pins` 检查钉名是城市编号（首都为“1”）；`test_solver`“别处已打钉的政府广场计入帝国上限”；`test_city`“可见的奢侈、战略资源排除，加成资源保留”。日本、高卢局里 `test_overlay` 的 36 个假想摆放与真实 DMT 钉逐项一致，说明本模组自建的修正缓存（AGENTS 坑 25）在游戏里生效。
+本轮新增或加强的游戏内用例：`test_pins` 检查钉名是城市编号（首都为“1”）；`test_solver`“别处已打钉的市政广场计入帝国上限”；`test_city`“可见的奢侈、战略资源排除，加成资源保留”。日本、高卢局里 `test_overlay` 的 36 个假想摆放与真实 DMT 钉逐项一致，说明本模组自建的修正缓存（AGENTS 坑 25）在游戏里生效。
 
 **引擎可建格复核**（`tests/bench/probe_engine.lua`，前置 `tests/fixtures/unlock_all.lua` 给玩家全部科技与市政、首都拥有 3 环）：逐区域逐格比较“本模组候选格 + DMT 可放”与游戏引擎的可建格（`CityManager.GetOperationTargets`）。
 
@@ -316,7 +316,7 @@ AI 自动打出 3 张后期存档，每张跑同一组求解步骤（`tools/stre
 | （第二轮）Steam 账号在别处运行游戏时启动链接停在"踢掉另一会话"确认框 | 记入 AGENTS 环境说明，由用户处理 |
 | （第三轮，离线对比发现）DMT 的修正缓存只由它自己的加载处理函数建立，本模组移除这些处理函数后，日本、巴西、荷兰、高卢、越南等文明特性规则没有计入 | `SDP_Overlay.RefreshModifiers` 自己建立（AGENTS 坑 25）；游戏内日本、高卢局验证 |
 | （第三轮，离线对比发现）DMT 允许区域钉压在奢侈、战略资源上，游戏不允许 | 候选格排除可见且不可采收的资源（AGENTS 坑 26）；引擎复核中未再出现不一致 |
-| （第三轮，离线对比发现）一座一座规划时，前一座城打了钉的政府广场没有计入帝国上限，会再放一个 | `SDP_City.DistrictStatus` 计入玩家的同类钉 |
+| （第三轮，离线对比发现）一座一座规划时，前一座城打了钉的市政广场没有计入帝国上限，会再放一个 | `SDP_City.DistrictStatus` 计入玩家的同类钉 |
 | （第三轮，游戏内引擎复核发现）DMT 不检查运河是否连通水域，规划可能给出游戏不允许的运河位置 | 已加引擎复核（`SDP_City.EngineRefused`，经 `SDP_Overlay.CanPlace` 生效）：城市已拥有的格以游戏的可建格为准；第四轮游戏内复测：罗马局 15 组运河全部被挡住，放行引擎不允许的格为 0；城市尚未拥有的格游戏不给结果，仍按 DMT（AGENTS 坑 27、已知问题） |
 | （第三轮）日本的“区域互邻 +1”由修正实现，排序用的线性模型没有这一项 | **未解决**：精确评分由 DMT 计算、已计入；离线日本场景平均质量 99.6%、最低 95.8%，列为后续改进 |
 | （第三轮）测试：删钉后没有广播导致钉留在地图上；几处断言按罗马的规则写死 | 已修（见“自动化测试结果”第三轮） |
@@ -333,5 +333,5 @@ AI 自动打出 3 张后期存档，每张跑同一组求解步骤（`tools/stre
 | （第六轮，压力测试）几个必建区域抢同几格时，单城求解报“没有合法布局”，一个都不放 | 没有完整方案时少放 1 个、2 个……再解，放得最多的胜出，没放下的写“没有剩余的空位” |
 | （第六轮，压力测试）大陆存档的 8 城联合规划报错：某座城的候选在 3 环内一个合法格都没有时，计算“候选不够”拿 nil 做减法 | 没有候选组按 0 个算；离线 `spec_crowded.lua` 覆盖，修改前多城一项失败 |
 | （第六轮，压力测试截图）多城页“港口、商业中心分城”被截断 | “每城数量”容器收窄，开关文字宽度 124 → 184 |
-| （第六轮，压力测试）保护区林苑、圣所的周边产出在校准时读不到 | `GameCore_Tuner` 状态的 `Plot:GetYield` 不含建筑给别的地块的产出；改在界面状态读，逐格与规则表一致（AGENTS 坑 34） |
+| （第六轮，压力测试）保护区古树林、避难所的周边产出在校准时读不到 | `GameCore_Tuner` 状态的 `Plot:GetYield` 不含建筑给别的地块的产出；改在界面状态读，逐格与规则表一致（AGENTS 坑 34） |
 | （第六轮，测试工具）自动回合停在外交界面、自然灾害弹窗；读档停在“继续游戏” | 自动回合以观察者身份观察并在轮询时关弹窗；读档前打开自动开始（AGENTS 坑 33、35） |

diff --git a/docs/install-and-test.md b/docs/install-and-test.md
@@ -39,7 +39,7 @@
 1. 进入对局后，屏幕左上角启动栏末尾会多出一个六边形图钉图标，悬停提示"智能区域规划器"。点击打开面板，再点一次或按 Esc 关闭。也可以按 **Shift+L** 打开或关闭（可在游戏的"选项 → 按键"里改，类别"智能区域规划器"）。
 2. **城市**：默认是地图上当前选中的本方城市，没有选中时为首都；可在下拉框中切换。
 3. **区域**：分两组排成网格，列表里的区域已按本文明替换为特色区域。点一下格子切换状态：
-   - **占人口名额的区域**：候选 → 必建 → 不建。必建的一定放；候选的在"区域数量"多于必建个数时参与挑选；不建的不考虑。全帝国限一个的区域（如政府广场）只有必建、不建。
+   - **占人口名额的区域**：候选 → 必建 → 不建。必建的一定放；候选的在"区域数量"多于必建个数时参与挑选；不建的不考虑。全帝国限一个的区域（如市政广场）只有必建、不建。
    - **不占名额的区域**（水渠、水坝、运河、社区、航天中心等）：自动 → 必建 → 不建。"自动"只出现在水渠类和水坝上：城市缺淡水时自动加水渠；三环内本城能用的泛滥平原不少于 3 格时自动加水坝（只在风云变幻）。位置照常求解，结果里标"自动加入"。
    - 本城已建的区域、全帝国已达上限的区域变暗，不能点，格子右侧写原因。
    - **港口、商业中心分城**（"占人口名额的区域"标题行中间的开关，默认勾选）：灯塔的贸易路线容量要求本城没有市场，两者建在同一座城只多 1 条贸易路线，分在两座城多 2 条。勾选时从候选里挑区域不会让一座城同时有这两种区域：城里已有其中一个（已建、已打钉或设为必建）就不挑另一个；只有不这样就凑不够区域数量时才两个都挑，结果里会提示。设为必建的照建。规则从游戏数据读，特色区域（英国皇家海军船坞、腓尼基科森、马里苏库巴）同样处理。
@@ -47,7 +47,7 @@
    - 挑选按加权相邻加成（打开时加上地块、距离成本）比较，社区、保护区再加上住房和保护区周边地块的产出（见权重的"住房"）。军营、航空港这类没有相邻加成的区域放在候选里不会被挑中，需要时设为必建。
 5. **奇观**：从"添加奇观"下拉框选，选中的显示成标签，点标签上的"×"去掉；可以选多个。已建成或已有钉的奇观不列出。选了奇观时，这座城按"多城"的方法求解（奇观放在区域之后，需要相邻某区域的奇观会挨着它）。
    **好位置**：下拉框里选一个区域，地图上把它能放的每一格按"单独放在这里的加成"从高到低分四档着色并标出数值，方便手动摆放；选"不显示"、求解、换城市或改设置时取消。
-6. **权重**（图标为游戏的字体图标，悬停看名称）：科学、文化、信仰、金币、生产力，每项 0–3，默认 1；食物、地貌只用于占地损失；**距离**（0–3，步长 0.5，默认 0）：每个区域、奇观按到最近的本方市中心的格数减 1 乘以它扣分，想让区域靠近城市时调高。游戏里区域造价与距离无关，这里只是偏好。最后一列 **住房**（0–3，默认 1）：社区、保护区按所在格的魅力提供住房（社区：惊艳 6、迷人 5、普通 4、无吸引力 3、令人厌恶 2；保护区 1 加同样的增减），每 1 住房按这个权重计分；保护区的林苑、圣所给周围未开发地块按魅力加的产出按各产出的权重计（勾"计入占地"时只算城市会耕作的地块）。魅力随方案变化：圣地、剧院、娱乐中心等让相邻格 +1，工业区、军营、航空港等 -1，区域建在树林上会砍掉树林、让周围格 -1。已有或已打钉的社区也计入，方案让它的魅力降档时要付出代价。
+6. **权重**（图标为游戏的字体图标，悬停看名称）：科学、文化、信仰、金币、生产力，每项 0–3，默认 1；食物、地貌只用于占地损失；**距离**（0–3，步长 0.5，默认 0）：每个区域、奇观按到最近的本方市中心的格数减 1 乘以它扣分，想让区域靠近城市时调高。游戏里区域造价与距离无关，这里只是偏好。最后一列 **住房**（0–3，默认 1）：社区、保护区按所在格的魅力提供住房（社区：惊艳 6、迷人 5、普通 4、无吸引力 3、令人厌恶 2；保护区 1 加同样的增减），每 1 住房按这个权重计分；保护区的古树林、避难所给周围未开发地块按魅力加的产出按各产出的权重计（勾"计入占地"时只算城市会耕作的地块）。魅力随方案变化：圣地、剧院、娱乐中心等让相邻格 +1，工业区、军营、航空港等 -1，区域建在树林上会砍掉树林、让周围格 -1。已有或已打钉的社区也计入，方案让它的魅力降档时要付出代价。
 7. **开关**（一行，悬停看完整说明）：
    - **计入占地**：默认勾选，区域占掉城市本来要耕作的好地块时扣除这部分损失；
    - **允许砍伐**：默认勾选；取消后方案不会放在树林、雨林、沼泽上；
@@ -81,7 +81,7 @@
    - **区域清单**下拉框默认是"所有城市（共用清单）"，已建和已有钉的会自动跳过。选某座城后，网格只改这座城自己的清单（第一次改动时从共用清单复制一份），城市列表里标"（自定清单）"。
    - 网格与单城相同（必建、候选、不建、自动）；标题右侧的**每城数量**是这份清单每座城要规划几个占人口名额的区域，多于必建个数时由求解器为每座城从候选里挑。
    - **套用模板**：按产出给出"科技城""文化城""信仰城""金币城""生产力城"等模板，内容是本文明能从相邻加成得到该产出的区域（从游戏规则读取，特色区域自动替换），设为必建；也可"清空清单"，或让某座城"改回共用清单"。
-   - **政府广场等全帝国限 1 个的区域**：在共用清单里设为必建时，由求解器在各城中选最好的位置；只在某座城自己的清单里必建时，就只放在这座城（悬停格子可看到）；都不建就不放。
+   - **市政广场等全帝国限 1 个的区域**：在共用清单里设为必建时，由求解器在各城中选最好的位置；只在某座城自己的清单里必建时，就只放在这座城（悬停格子可看到）；都不建就不放。
 3. **奇观**：与单城相同的标签和"添加奇观"下拉框。
 4. **权重**与单城相同，另有最后一列 **覆盖**（0–3，默认 0，即不计）：大于 0 时，工业区、娱乐中心、水上乐园和斗兽场这类有覆盖范围的奇观，会尽量放在能覆盖更多本方城市（包括城址）的格上。
    - 每新覆盖一座城记"权重"分，与相邻加成同一单位。覆盖半径从游戏规则读（风云变幻：工业区、娱乐中心 6 格，水上乐园 9 格）；已建、已打钉的同类区域已覆盖到的城不再计。
@@ -114,14 +114,14 @@
 | 8 | 3–4 个区域设为必建，求解 | 游戏没有明显卡顿（停顿约 2 秒以内） |
 | 9 | 单城选精细档求解，计算中关闭面板 | 计算继续；算完时启动栏按钮出现标记，重新打开面板可看到结果 |
 | 10 | 选城址页签：新城数量 2，求解，点第二套方案 | 地图上预览随之切换；切换页签或关闭面板时预览消失；打城址钉后地图上出现市中心钉 |
-| 11 | 多城页签：用上一步的城址钉求解，打钉 | 钉名是所属城市的编号；全帝国只有一个政府广场；撤销后钉全部消失 |
+| 11 | 多城页签：用上一步的城址钉求解，打钉 | 钉名是所属城市的编号；全帝国只有一个市政广场；撤销后钉全部消失 |
 | 12 | 进入游戏的区域放置模式（如用建造者） | 规划器的预览自动清除，不干扰游戏的放置显示 |
 | 13 | 按 Shift+L | 面板打开；再按一次关闭 |
 | 14 | 单城：添加两个奇观，求解，打钉 | 区域和奇观一起出现在结果里，奇观钉带奇观图标 |
 | 15 | 单城：好位置里选学院 | 地图上学院能放的格子按加成分档着色、标出数值；选"不显示"后消失 |
 | 16 | 单城：打钉后勾选"替换本模组之前打的钉"，再求解、打钉，然后撤销 | 新方案可以用到旧钉的位置；打钉后旧钉被换掉；撤销后旧钉回来 |
 | 17 | 打钉后存档、读档，点撤销 | 读档前打的钉被删除 |
-| 18 | 多城：区域清单选一座城，只给它把政府广场设为必建，求解 | 政府广场只出现在这座城；城市列表里这座城标"（自定清单）" |
+| 18 | 多城：区域清单选一座城，只给它把市政广场设为必建，求解 | 市政广场只出现在这座城；城市列表里这座城标"（自定清单）" |
 | 19 | 单城：学院、剧院、商业中心、工业区设为必建，奇观选大图书馆，求解 | 大图书馆出现在结果里，并挨着学院（区域聚在一起时也不会被漏掉） |
 | 20 | 多城：两三座相距 6 格左右的城，区域清单只给其中一座把工业区设为必建，覆盖权重设为 3，求解；再把覆盖设回 0 求解 | 权重 3 时工业区放在能覆盖更多城的格上，结果行写"覆盖 N 城"，悬停列出城名；设回 0 后方案只看相邻加成和地块 |
 | 21 | 单城：学院设为必建，其余占名额的区域保持候选，区域数量调到 4，求解 | 分帧算完后出现三套方案，区域组合各不相同，都含学院；点第二套，地图预览随之切换 |

diff --git a/docs/design.md b/docs/design.md
@@ -26,7 +26,7 @@ SDP_Panel (UI/SDP_Panel.lua，InGame 上下文，Lua 状态名 SDP_Panel)
 - **联合总分** = 方案里每个新区域的得分 + 每个固定 subject 的得分。固定 subject 是城市四环内本玩家的已建区域（含市中心）和锁定地图钉（`SDP_Overlay.FixedSubjects`），它们的得分会因为新区域相邻而变化。
 - **提升（Gain）** = 联合总分 − 基线。基线是不放新区域时固定 subject 的总分。求解器最大化提升；结果里的 `Neighbours` 列出得分变化的固定 subject。
 - **可选的三项**：面板打开"计入地块"时加上地块部分（`SDP_Land`，区域占掉的格少耕作的产出）；多城页签的覆盖权重不为 0 时加上覆盖项（`SDP_Coverage`，权重 × 方案新覆盖的（城市, 类别）个数，见 multicity-design.md 第 19 节）；距离成本权重不为 0 时减去距离成本（每个区域、奇观 权重 × (到最近的本方市中心的格数 − 1)，见 multicity-design.md 第 20.3 节）。覆盖项和距离成本默认关，关时目标就是五项加权和（加上默认打开的地块部分）。
-- **住房与魅力项**（2026-10-21）：方案里有依赖魅力的区域（`AppealHousingChanges` 有行的：社区、保护区），或城市旁已有、已打钉的这类区域时，加上住房权重 × 它们的住房，以及必建保护区的林苑、圣所给周围未开发地块的产出（从候选里挑出的保护区只显示不计分；`SDP_Appeal`，multicity-design.md 第 22.3 节）。住房按所在格的魅力定，魅力随方案变化（相邻区域的 `Districts.Appeal`、建区域清掉的地貌和改良设施）。DMT 不算这一项。住房权重默认 1。
+- **住房与魅力项**（2026-10-21）：方案里有依赖魅力的区域（`AppealHousingChanges` 有行的：社区、保护区），或城市旁已有、已打钉的这类区域时，加上住房权重 × 它们的住房，以及必建保护区的古树林、避难所给周围未开发地块的产出（从候选里挑出的保护区只显示不计分；`SDP_Appeal`，multicity-design.md 第 22.3 节）。住房按所在格的魅力定，魅力随方案变化（相邻区域的 `Districts.Appeal`、建区域清掉的地貌和改良设施）。DMT 不算这一项。住房权重默认 1。
 - **分城**（2026-10-21）：从候选里挑区域时，同一座城不同时挑港口和商业中心（以及其他贸易路线互斥的区域，规则从修正读：灯塔的贸易路线容量要求本城没有市场）。这是挑选时的约束，不进目标函数；凑不够数量时放行；面板默认打开（multicity-design.md 第 22.2 节）。
 - **互斥**（2026-10-21 压力测试）：一座城不能同时有的区域（`MutuallyExclusiveDistricts`：娱乐中心与水上乐园及其特色版本）。DMT 只拿已建区域检查，规划器自己挡：两个都必建时后写的那个不放并写明原因，候选组合永不同时含两者，城里已建其一时另一个置灰（`SDP_Rules.Exclusive`）。
 
@@ -96,7 +96,7 @@ SDP_Panel (UI/SDP_Panel.lua，InGame 上下文，Lua 状态名 SDP_Panel)
   - 已有地图钉（四环内，即所有候选格的邻居范围）全部视为锁定：钉所在格不可用，钉本身作为固定邻居交给阶段 3 的 overlay。
   - "可移除地貌"取自 `GameInfo.Features.Removable`，本机 GS 数据为树林、雨林、沼泽，正好对应约束 5。
 - `SpecialtyCapacity(pop)` = `1 + floor((pop-1)/3)`（坑 18）；扫描结果附带已用名额 `SpecialtyBuilt`。
-- `DistrictStatus(scan, districts)`：`BUILT`（本城已建且每城限一个，面板置灰）、`EXCLUSIVE`（本城已建与它互斥的区域）或 `MAX_PER_PLAYER`（全帝国数量已达上限，如政府广场，已建和已打钉的都算），用来避免 AMT 那样乱放全局唯一区域。
+- `DistrictStatus(scan, districts)`：`BUILT`（本城已建且每城限一个，面板置灰）、`EXCLUSIVE`（本城已建与它互斥的区域）或 `MAX_PER_PLAYER`（全帝国数量已达上限，如市政广场，已建和已打钉的都算），用来避免 AMT 那样乱放全局唯一区域。
 
 ## 界面骨架（阶段 1）
 
@@ -113,7 +113,7 @@ SDP_Panel (UI/SDP_Panel.lua，InGame 上下文，Lua 状态名 SDP_Panel)
 - **城市与区域数量**：下拉框列出本玩家的城市（按城市 ID 排序），默认选地图上当前选中的本方城市，没有则选首都。右侧"区域数量"步进：要规划几个占人口名额的区域，必建的也算在内（反馈第 1 条，见 multicity-design.md 第 20 节）。
 - **特色区域名额提示**：已建数、本次数量、当前人口上限。超出时只提示，不阻止。
 - **区域网格**：`PlannableDistricts` 分两组、各排成三列（反馈第 6、7 条），按本地化名称排序：
-  - 占人口名额的区域（`RequiresPopulation`），状态 必建 / 候选 / 不建，默认候选；全帝国限一个的（政府广场）只有必建 / 不建，默认不建。
+  - 占人口名额的区域（`RequiresPopulation`），状态 必建 / 候选 / 不建，默认候选；全帝国限一个的（市政广场）只有必建 / 不建，默认不建。
   - 不占名额的区域，状态 自动 / 必建 / 不建；能自动的（`SDP_Rules.AutoKind`：水渠类、水坝）默认自动，其余默认不建。
   - 点一下按 候选（或自动）→ 必建 → 不建 循环（`SDP_UI.NextState`）。必建和自动用选中的亮底；不建、本城已建或已达帝国上限的变暗，后两者不能点，格子右侧写原因。
   - 求解请求里的区域始终按类型名排序，方案不受点击顺序影响。
@@ -152,7 +152,7 @@ SDP_Panel (UI/SDP_Panel.lua，InGame 上下文，Lua 状态名 SDP_Panel)
 
 ## 第 18 节吸收的功能（2026-10-20，离线与游戏内已验证）
 
-- **多城逐城清单与模板**（第 1、2 项，`SDP_PageMulti`）：请求的 `Plans[参与者 Key]` 覆盖共用清单。全帝国限量的区域（政府广场）在规划它的各城可用格的并集里放一个，所以只写进一座城的清单就等于锁定在这座城。模板 `SDP_Rules.Templates`：对五种产出，列出本玩家有相邻规则产出它的可规划区域（`District_Adjacencies` + `Adjacency_YieldChanges`，按特性排除的行不算），不硬编码。
+- **多城逐城清单与模板**（第 1、2 项，`SDP_PageMulti`）：请求的 `Plans[参与者 Key]` 覆盖共用清单。全帝国限量的区域（市政广场）在规划它的各城可用格的并集里放一个，所以只写进一座城的清单就等于锁定在这座城。模板 `SDP_Rules.Templates`：对五种产出，列出本玩家有相邻规则产出它的可规划区域（`District_Adjacencies` + `Adjacency_YieldChanges`，按特性排除的行不算），不硬编码。
 - **引擎可建格复核**（第 3 项，`SDP_City.EngineRefused`、`SDP_Overlay.EngineRefuses`）：对城市已拥有的格，若游戏引擎为该区域给出了非空的可建格列表（`CityManager.GetOperationTargets`，游戏的放置透镜用的就是它），列表外的格判为不可放（DMT 判可放也一样，结果行原因为"游戏不允许"）。按（城市, 区域）每回合查一次；列表为空（区域未解锁、没有空槽位等）或格子不属于该城时，仍以 DMT 为准。所有合法性判断都经过 `SDP_Overlay.CanPlace` / `Evaluate`，所以求解、热力图、多城、奇观都一致。
 - **单城奇观**（第 5 项）：选了奇观时，单城请求转成只有这一座城的 `SDP_Multi` 请求（`Only = { 城市 }`，不含城址钉），沿用多城的奇观逻辑。
 - **好位置热力图**（第 6 项，`SDP_Solver.Heat`）：对候选格逐个评估该区域单独放下的加权增益（含它给邻居带来的变化），合法的按最高到最低分四档用预览层着色并标数值。

diff --git a/docs/tester-guide.md b/docs/tester-guide.md
@@ -53,7 +53,7 @@ Mac 上已经用自动化测试验证过逻辑（三种规则集，项数见 `RE
    - 多城页勾"替换旧钉"再打钉：选城址页打的市中心钉应还在。上一版会被删掉。
    - 港口与商业中心分城（默认打开）：选一座沿海城，港口、商业中心都是候选、区域数量 ≥ 2，三套方案里同一座城不应同时有这两个；关掉开关再求解，可能会同时挑。两个都设为必建时照建，结果里有一行"港口与商业中心同城：灯塔不增加贸易路线"。
    - 社区：设为必建求解，结果行写"住房 +x（魅力 y）"。打开游戏的魅力透镜看那一格的魅力是否是 y，住房是否按 惊艳 6、迷人 5、普通 4、无吸引力 3、令人厌恶 2。再让工业区也必建，看工业区是否避开社区（挨着会让魅力 -1）。
-   - 保护区：结果行写住房和"周边地块"产出。设为必建时周边产出计分；设为候选被挑中时只计住房，周边产出后面标"候选，不计分"。建成后（可用林苑、圣所）对照周围未开发地块多出的产出。
+   - 保护区：结果行写住房和"周边地块"产出。设为必建时周边产出计分；设为候选被挑中时只计住房，周边产出后面标"候选，不计分"。建成后（可用古树林、避难所）对照周围未开发地块多出的产出。
    - 娱乐中心和水上乐园：两个都设为必建，只放先列出的那个，另一个写"不能和……建在同一座城"；都设为候选时，三套方案里同一座城不会同时有。城里已建其一时，另一个格子置灰。
    - 必建区域抢同一块地（如沿海格很少的城同时必建港口和水上乐园）：应放下能放的，另一个写"没有剩余的空位"。上一版直接报错。
    - 区域放在农场、牧场上时，结果里多一行"占掉的改良设施 住房 -x"，对照城市详情里改良设施给的住房。

diff --git a/CHANGELOG.md b/CHANGELOG.md
@@ -10,6 +10,7 @@
 - 选城址：悬停列出每个城址拿到的奢侈、战略资源和份数，标出算作新种类的；行上的奢侈分、战略分按整套方案归属后再算，重叠的资源不再两边都算，各城址的分加起来等于方案总分（[#8](https://github.com/SmallSpider0/civ6-smart-district-planner/issues/8)）。
 - 选城址：悬停分别写出离我方最近的城市或已打城址钉的距离、离本方案其他城址的距离（[#9](https://github.com/SmallSpider0/civ6-smart-district-planner/issues/9)）。
 - 问题反馈模板改为中英并列，新建 Issue 的页面链接介绍与评测页和安装说明；GitHub 发布说明以后英文在前、中文在后（[#4](https://github.com/SmallSpider0/civ6-smart-district-planner/issues/4)、[#6](https://github.com/SmallSpider0/civ6-smart-district-planner/issues/6)）。
+- 英文界面改用游戏自己的叫法：tile（不再写 plot）、valid（不再写 legal）、map tack、Specialty districts、Woods / Rainforest / Marsh 等专有名词首字母大写；“Need population”分组改叫“Specialty districts”，“Tier”改叫“Effort”，提醒钉名改为“Don't chop: …”。中文界面和文档里的“政府广场”改为游戏的“市政广场”，“林苑、圣所”改为“古树林、避难所”（[#2](https://github.com/SmallSpider0/civ6-smart-district-planner/issues/2) 的文字部分）。
 
 ## v1.0.0（2026-10-22）
 

diff --git a/README.md b/README.md
@@ -17,7 +17,7 @@
 各页签共用：
 
 - 快速、标准、精细三档；规模小时穷举，结果注明是否最优或离上界多远，可以继续优化。同一局面、同样输入，结果每次相同。
-- 已建区域和你自己打的钉不挪、不压，并作为邻居计分；全帝国限量的区域（如政府广场）不会重复规划。
+- 已建区域和你自己打的钉不挪、不压，并作为邻居计分；全帝国限量的区域（如市政广场）不会重复规划。
 - 结果行显示坐标和加成，悬停看 DMT 的逐项来源。
 - 社区按魅力计住房，保护区计魅力和周边产出；缺淡水时自动加水渠，泛滥平原多时自动加水坝；方案靠旁边的树林、雨林拿加成时，打钉时在这些格上加“勿砍”提醒钉。
 - 耗时长的计算分帧进行，游戏不卡，关掉面板也会算完。可以撤销，撤销记录随存档保存。<kbd>Shift</kbd>+<kbd>L</kbd> 打开面板。
